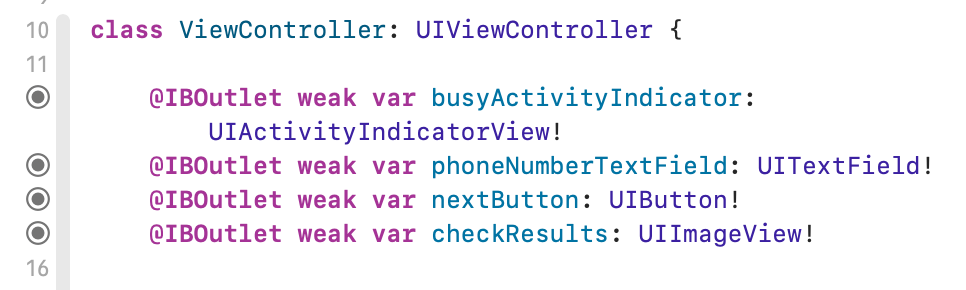
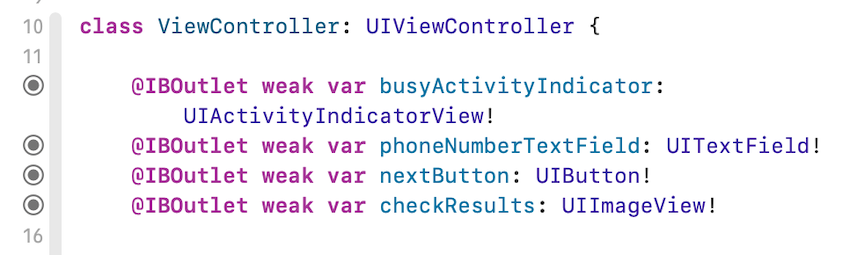
Image description update, size adjustments

diff --git a/Tutorial README.md b/Tutorial README.md
@@ -110,7 +110,7 @@ All UI components are Horizontally aligned in the container using constraints. Y
 
 The view layout should look like this:
 
-![Design preview](tutorial-images/main_storyboard.png)
+![Main Storyboard](tutorial-images/main_storyboard.png)
 
 There are a couple of configuration you may want to do for these UI components.
 
@@ -128,7 +128,7 @@ phoneNumberText
 nextButton
 checkResults
 
-![Design preview](tutorial-images/outlets.png =850x255)
+![Outlets](tutorial-images/outlets.png)
 
 Cool! This will allow us to retrieve the phone number entered by the user, and control the state to provide feedback to the user. We now have one last thing to do related to the storyboard.
 
@@ -211,13 +211,13 @@ Click Create
  production_server_base_url
 
  ```
- ![Design preview](tutorial-images/plist.png)
+ ![Plist](tutorial-images/plist.png)
  
  You must ensure to assign the correct value to the `development_server_base_url`. This value is the one you are provided from the Terminal when you set-up and ran your development server at the begining of this tutorial. For production, you should implement your own backend and add the URL to your endpoints here in the `production_server_base_url`.
 
  In order to read the plist,  we create a `struct` called `AppConfiguration`, which deals with loading the correct endpoint so we do not have to worry when we are implementing the main use cases.
 
-![Design preview](tutorial-images/util_project_navigator.png)
+![Project Navigation](tutorial-images/util_project_navigator.png)
 
 ```
 import Foundation
